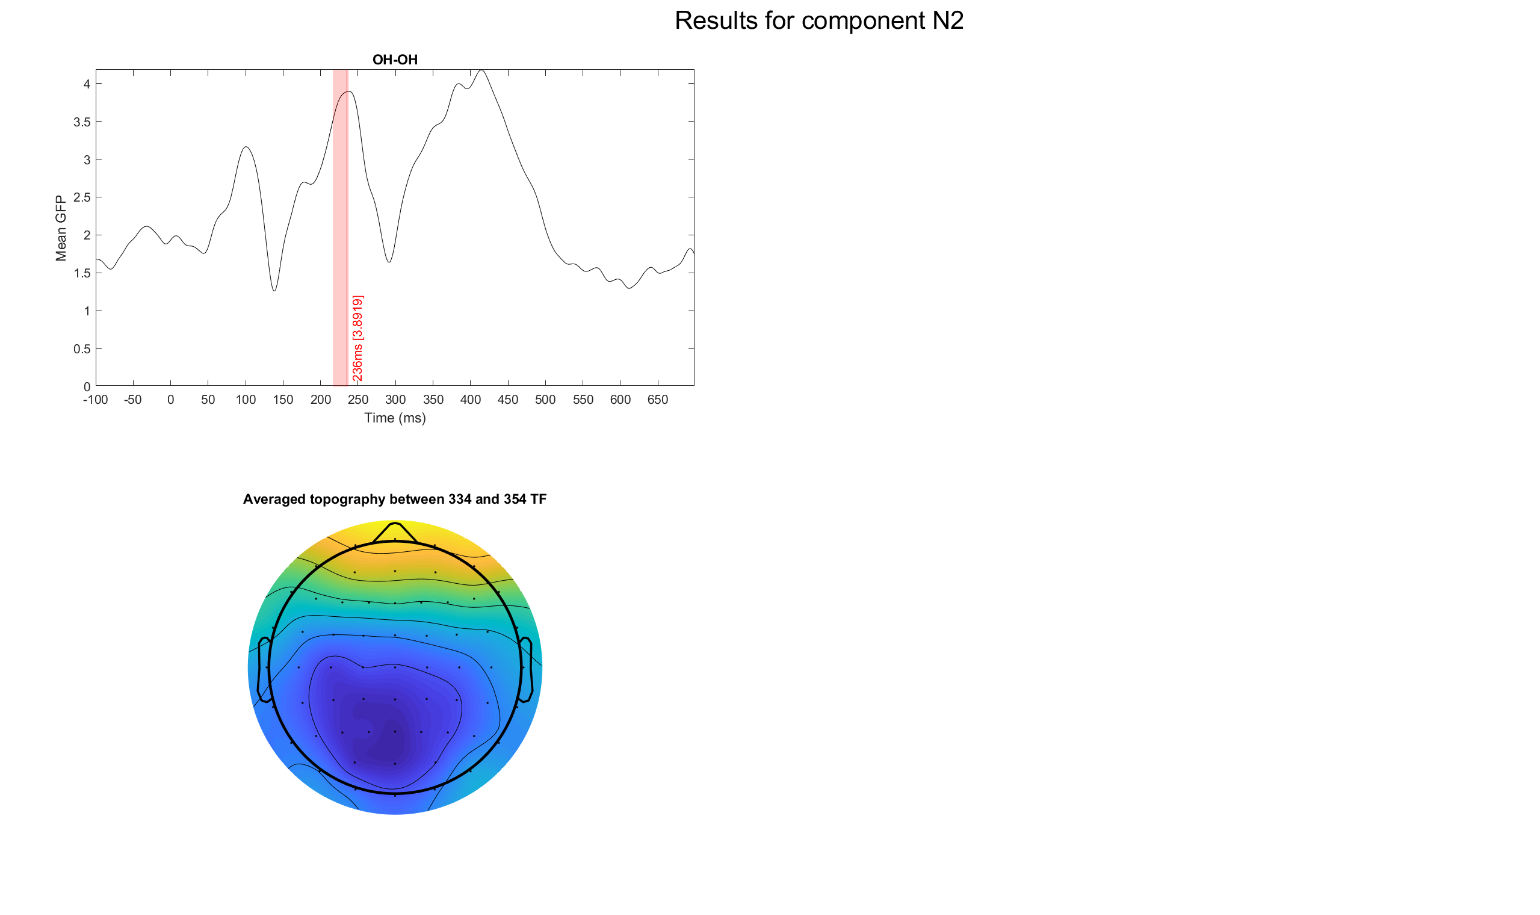
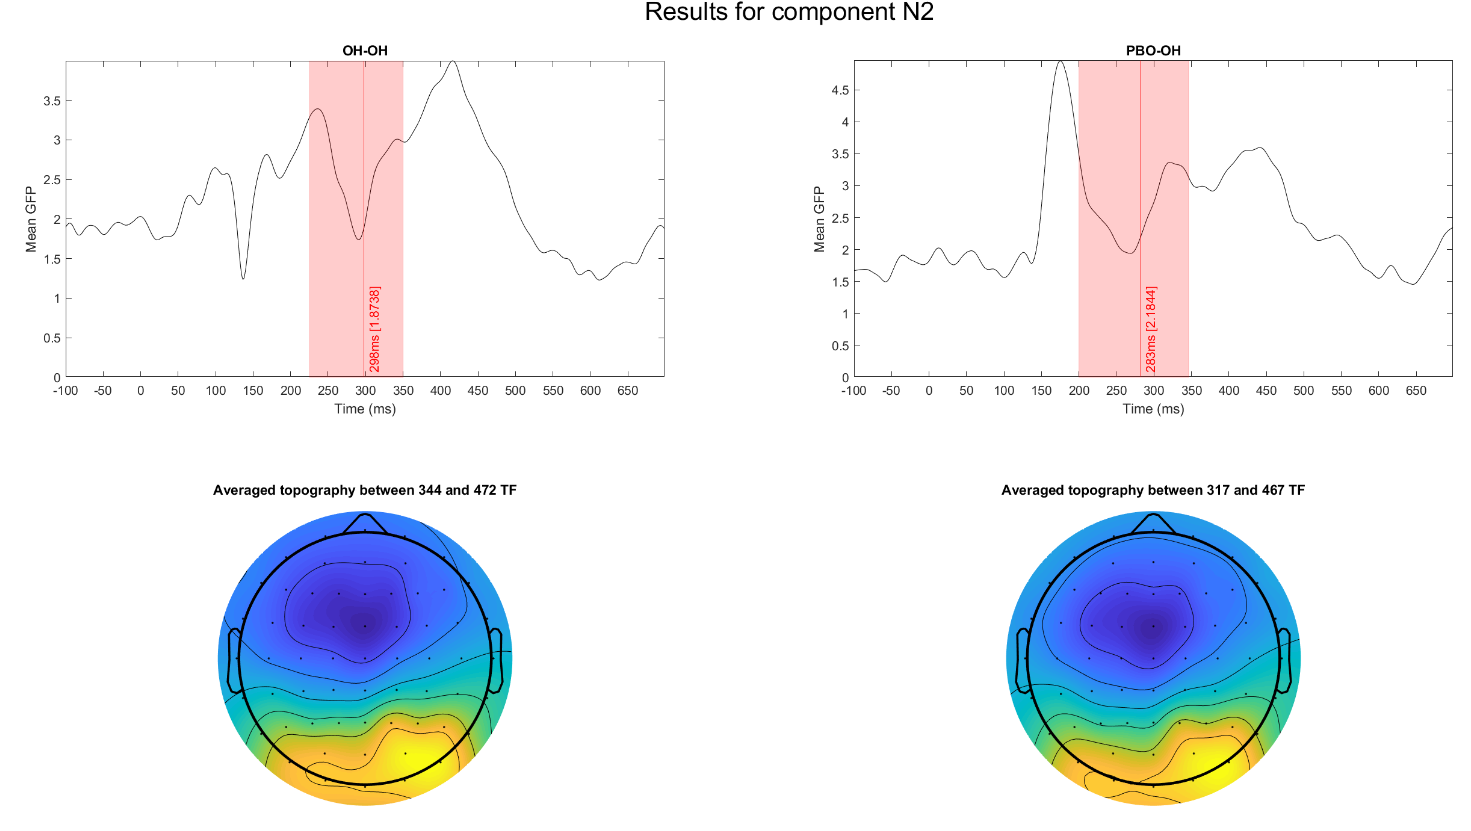
Updated readme.md

diff --git a/GFPPeaks.m b/GFPPeaks.m
@@ -257,7 +257,7 @@ for n=1:sum(~cellfun(@(x) isempty(x), CompList(:,1))) % For each Comp
                     if j==1
                         PosRectinTF = [TEMPCompinTF(1) Yl(1) TEMPCompinTF(2)-TEMPCompinTF(1) (Yl(2)-Yl(1))*0.8]; %  
                     else
-                        PosRectinTF = [TEMPCompinTF(1) Yl(1) TEMPCompinTF(2)-TEMPCompinTF(1) Yl(2)*0.8]; 
+                        PosRectinTF = [TEMPCompinTF(1) Yl(1) TEMPCompinTF(2)-TEMPCompinTF(1) Yl(2)*0.1]; 
                     end
                     rectangle('Position',PosRectinTF,'FaceColor',[0 0 1 0.2],'EdgeColor',[0 0 1 0.2]);
                 end
@@ -336,10 +336,11 @@ for n=1:sum(~cellfun(@(x) isempty(x), CompList(:,1))) % For each Comp
         p=uitable('Parent', f,'Data',to_display,'ColumnEdit',[false true],'ColumnName',...
             {'Files', 'Peak GFP'},'ColumnWidth', {180,60},...
         'CellEditCallBack','MaxGFPList = get(gco,''Data'');');
-        uicontrol('Style', 'text', 'Position', [20 325 200 50], 'String',...
-                {'Individual GFP peaks (in TF !!)',...
+        uicontrol('Style', 'text', 'Position', [20 325 250 50], 'String',...
+                {sprintf('Individual GFP peaks (in TF !) for component : %s',CompN{1}),...
                 'Close the box once you are settled with all files.'});
-        % Reminder
+        
+            % Reminder
         clc; % Clear command window
         fprintf('<strong> Current component of interest: %s [%d - %d TF] </strong> \n',...
             CompN{1},TEMPCompinTF(1),TEMPCompinTF(2))
@@ -395,12 +396,12 @@ for n=1:sum(~cellfun(@(x) isempty(x), CompList(:,1))) % For each Comp
         title(sprintf('%s',strrep(Fields{m},'_','-'))) 
         set(gca,'XTick',Ticks,'XTickLabel',num2cell(XTStr));
         
-        % Vertical line
+        % Vertical line (Peak)
         PosinMS = round(MaxGFP.(Fields{m}).Pos/SamplingRate*1000);
         LabelValue = [num2str(PosinMS + Epoch(1)) 'ms ' '[' num2str(MaxGFP.(Fields{m}).Value) ']'];
         xline(MaxGFP.(Fields{m}).Pos,'-',LabelValue,'Color',[1 0 0],'LabelVerticalAlignment','bottom');
         
-        % Patches
+        % Patches (+- 1SD around the peak)
 %         PosRectinMS = [TEMPComp(1) 0 TEMPComp(2)-TEMPComp(1) max(MeanGFP.(Fields{m}))];
         PosRectinTF = [PosinMS-SDPeakGFP.(Fields{m}) 0 2*SDPeakGFP.(Fields{m}) max(MeanPeakGFP.(Fields{m}))];
         rectangle('Position',PosRectinTF,'FaceColor',[1 0 0 0.2],'EdgeColor',[1 0 0 0.2]);
